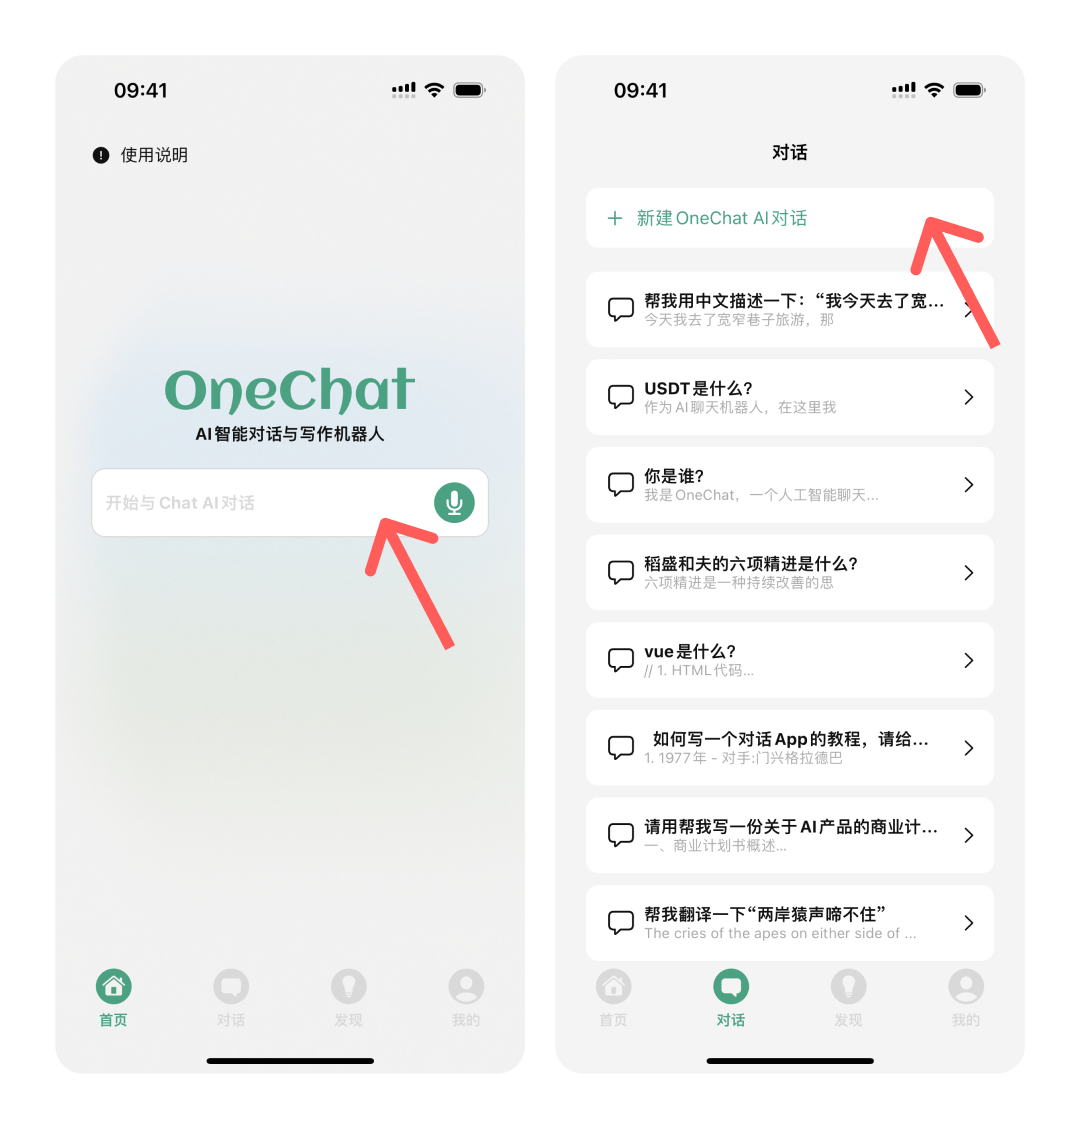
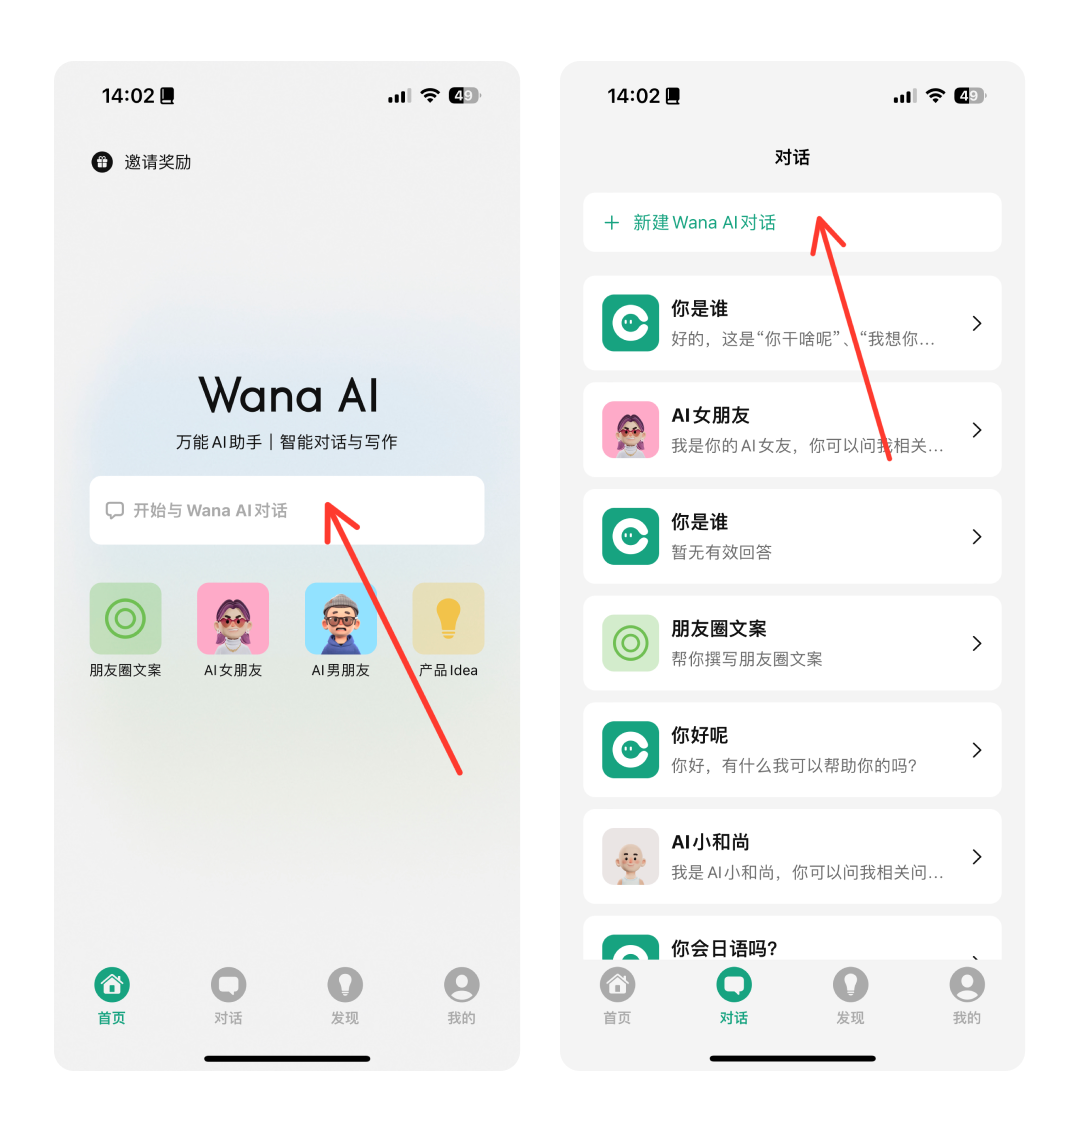
Update

diff --git a/docs/WanaAI/tutorial.md b/docs/WanaAI/tutorial.md
@@ -6,7 +6,7 @@
 
 2. Open a new conversation by clicking "Create Conversation" at the top of the conversation list.
 
-<img src="../cn/OneChat/img/tutorial_en01.png" width="720" />
+<img src="../cn/WanaAI/img/tutorial_en01.png" width="720" />
 
 
 ## How to change the conversation title?
@@ -15,4 +15,4 @@
 
 2. Enter the settings and click on the title location to modify the title.
 
-<img src="../cn/OneChat/img/tutorial_en02.png" width="720" />
+<img src="../cn/WanaAI/img/tutorial_en02.png" width="720" />

diff --git a/docs/cn/WanaAI/tutorial.md b/docs/cn/WanaAI/tutorial.md
@@ -6,7 +6,7 @@
 
 2. 通过对话列表，点击顶部的新建对话开启
 
-<img src="../cn/OneChat/img/tutorial_cn01.png" width="720" />
+<img src="../cn/WanaAI/img/tutorial_cn01.png" width="720" />
 
 ## 如何修改对话标题？
 
@@ -14,4 +14,4 @@
 
 2. 进入设置，点击标题位置即可修改标题
 
-<img src="../cn/OneChat/img/tutorial_cn02.png" width="720" />
+<img src="../cn/WanaAI/img/tutorial_cn02.png" width="720" />
